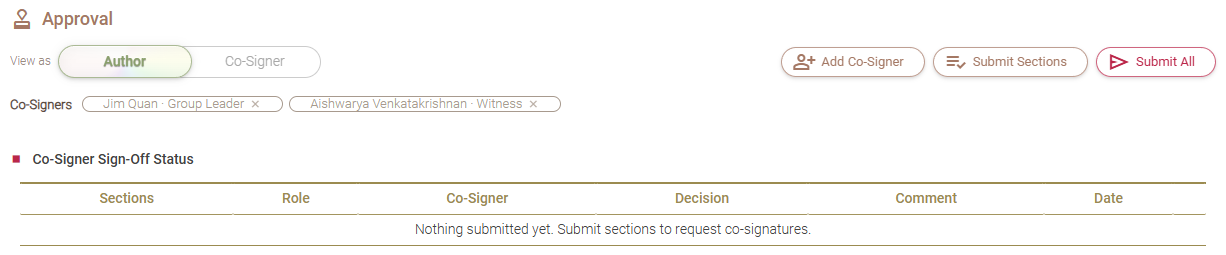
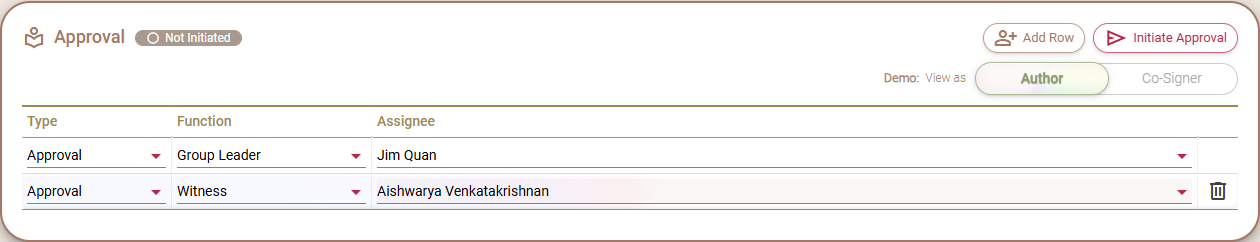
ELN 구현결과 문서: 표준 결재 UI(2번) 그림·설명·회의 결정, Sticky note 크기 조절, Audit 대상 추가(한·영)

diff --git a/docs/ELN_1차구현결과_EN.html b/docs/ELN_1차구현결과_EN.html
@@ -133,7 +133,7 @@ table.dec td.cur{color:var(--ink2);font-size:12px}
 
   <tr class="grp"><td colspan="6">Step 1 · Record reliability</td></tr>
   <tr data-tip="t1"><td class="no">1</td><td class="f">Header fields</td><td class="rq">Header fields for experiment date, a Platform tech / Pre-NPC option (work without a MAPIS NPC number), associated NPI number(s) (several), and paper notebook and page references<span class="nice">Nice</span></td><td>Experiment Date (MAPIS standard date picker, shown as MM-DD-YYYY), Platform / Pre-NPC and Paper Notebook Ref. added to Basic Data. NPI numbers (several) are linked as Project items in Related Items</td><td class="s"><span class="badge ok">Implemented</span></td><td class="nt">No separate NPI field (in MAPIS, NPI number = project code). Projects (NPI, NPT and TS alike) are linked as Project items in Related Items, several per note, all equal. The Primary project, the Associated Project # field in Basic Data and the Stage/Task field were removed (decision of 2026-10-16). Platform/Pre-NPC can coexist with projects. Production has no master list for Platform or Pre-NPC, so the user picks only the type (Platform Technology / Pre-NPC) and types the name; names used in other notes are suggested by autocomplete (user decision). Dates are shown in the MAPIS standard MM-DD-YYYY. The paper notebook reference was Nice, but it was included because it is cheap to build.</td></tr>
-  <tr data-tip="t2"><td class="no">2</td><td class="f">Co-Signer sign-off</td><td class="rq">The author picks the Co-Signers (signers) directly</td><td>Author assigns signers → submits by section or all at once → signer chooses Approved / Not Approved (comment required). Progress shown by the header status and badges</td><td class="s"><span class="badge ok">Implemented</span></td><td class="nt">The card keeps its existing name "Approval" instead of being renamed "Sign-off" (to avoid confusing users). The sign-off row format matches the production approval UI.</td></tr>
+  <tr data-tip="t2"><td class="no">2</td><td class="f">Co-Signer sign-off</td><td class="rq">The author picks the Co-Signers (signers) directly</td><td>MAPIS standard approval UI (same as FMEA). The author sets the approval line (Type · Function · Assignee) with Add Row → Initiate Approval: choose the sections to submit › request comment › submit → the current approver chooses Approved / Not Approved (comment required) › Submit. Before any decision, Withdraw Approval takes it back. Progress shown by the card status badge (Not Initiated / Pending / Approved / Rejected) and the header badges</td><td class="s"><span class="badge ok">Implemented</span></td><td class="nt">The card keeps its existing name "Approval" instead of being renamed "Sign-off" (to avoid confusing users). The approval line editor, status table and buttons follow the production standard approval (appr_util.js, FMEA style) (decided 2026-10-19). ELN-specific parts are only per-section submission · lock, unlock on rejection, Errata after approval, and the "Approved n of m sections" badge.</td></tr>
   <tr data-tip="t3"><td class="no">3</td><td class="f">Lock after submission · Errata</td><td class="rq">Sections can still be added and Errata (corrections) made after ELN submission</td><td>Submitted sections block both editing and deletion; they unlock on rejection, and once fully approved the whole note is read-only. Errata (reason required) can still be added after approval</td><td class="s"><span class="badge ok">Implemented</span></td><td class="nt">The review found ways to bypass the lock with the keyboard, dragging and image drops; these were closed. Errata are allowed even after approval (the original never changes, corrections are only added).</td></tr>
   <tr data-tip="t4"><td class="no">4</td><td class="f">Audit Trail</td><td class="rq">Audit Trail feature</td><td>Table of time · user · section · action · before→after, with Section/User filters. Records most changes, from the header to the editor, tables, attachments and approvals</td><td class="s"><span class="badge ok">Implemented</span></td><td class="nt">Scope extended to changes inside sections (tables, attachments, editor, etc.) (user request). Bulk changes made by the program, such as switching notes or copying, are not recorded.</td></tr>
 
@@ -162,6 +162,7 @@ table.dec td.cur{color:var(--ink2);font-size:12px}
   <li>The Change History title and filters placed on one line</li>
   <li>Formulation selection → <b>Link Formulations</b>: renamed to match what it does (links formulations to the note and shows a comparison when there are two or more). The default scope is all projects linked to this note (Project items in Related Items), and the search can be widened to All projects. The table shows the formulation name and Project # (assuming production Formulator data carries the project number)</li>
   <li>Sticky notes show the author and time. Who can see them = whoever can see that section (the Share &amp; Access scope as is, no separate sharing per sticky note). Sticky notes never leave their section</li>
+  <li>Sticky note resizing (2026-10-19): drag the handle at the bottom-right of a sticky note to resize it within 160-480 px wide and 46-360 px body height; it never grows past its section. The handle is hidden when the note is collapsed, locked, approved or in translation view. Like moving, resizing leaves no Audit entry. Production would store the size (w, h) together with the position (x, y)</li>
   <li>Note status unified into the single approval status: the list and the note header both show In Progress → In Approval → Approved (the old list labels Success / Failed / On Hold and Done / In Review / Draft are dropped)</li>
   <li>Dates shown in the MAPIS standard MM-DD-YYYY (production format MM-dd-yyyy). Experiment Date uses the standard date picker (before, the format changed with the PC language)</li>
   <li>The summary panel on the right of the list now uses the MAPIS standard summary layout (same as the Tech Library and Composition lists): title link, label/value rows, section headings (Related Projects · Modules · Tags), status as colored text, wider panel</li>
@@ -191,6 +192,7 @@ table.dec td.cur{color:var(--ink2);font-size:12px}
   <tr><td class="f">1. Project links</td><td>Decided 2026-10-16: the Primary project concept and the Associated Project # (NPI, NPT, TS) field in Basic Data are removed. Projects are linked only as Project items in Related Items</td><td class="cur">Related Items › Project: search by project # or title, shown as [CODE] Title, a click opens the project. Hint "Linking a project does not grant access to this note." The demo note has 3 projects linked</td></tr>
   <tr><td class="f">1. Stage / Task</td><td>Decided 2026-10-16: the Stage (Task) field is removed. It was based on the Primary project, so it goes too</td><td class="cur">None</td></tr>
   <tr><td class="f">1. Date format</td><td>Decided 2026-10-16: dates are shown in the MAPIS standard MM-DD-YYYY (production MM-dd-yyyy)</td><td class="cur">All dates on screen are MM-DD-YYYY. Experiment Date uses the standard date picker</td></tr>
+  <tr><td class="f">2. Approval UI</td><td>Decided 2026-10-19: the approval UI is unified with the MAPIS standard approval (FMEA style); only per-section submission · lock · Errata stay ELN-specific</td><td class="cur">Approval card: status badge + Add Row · Initiate Approval · Withdraw Approval, Approval Line editor table (Type · Function · Assignee), Approval Status table (Type · Function · Assignee · Status · Comments · Date · Submit, one Submission row per submission with its sections)</td></tr>
   <tr><td class="f">6. Sharing input form</td><td>Decided 2026-10-16: no modal opened on top of another modal (business users' request)</td><td class="cur">In the Share &amp; Access window, Add People (or the Edit pencil on a row) expands an input form above the access table. Saving collapses the form and refreshes the table</td></tr>
   <tr><td class="f">6. Sharing Reason field</td><td>Decided 2026-10-16: the Share Reason field is removed. The original request only asks to "share under compliance"; the reason field was our own interpretation and was not shown anywhere</td><td class="cur">Only the security-policy acknowledgement is required (Share · Save stay disabled until it is ticked). Audit entries end with "Security policy acknowledged"</td></tr>
   <tr><td class="f">7. Copy To in the list</td><td>Decided 2026-10-16: Copy To in the list summary panel is removed. The original request (Copy from) names no location, so it stays only in the note pop-up</td><td class="cur">Note pop-up Copy To: choose sections + Include entered data, opens in a new window</td></tr>
@@ -265,20 +267,44 @@ table.dec td.cur{color:var(--ink2);font-size:12px}
   <div class="tt-req">"Author chooses Co-Signers"</div>
   <div class="tt-cap">Screens</div>
   <figure class="tt-fig">
-    <div class="shot"><img src="img/eln/02_approval_before.png" alt="Approval card, author view, before submission"><span class="mk" style="left:27.1%;top:24.3%">①</span><span class="mk" style="left:46.8%;top:40.9%">②</span><span class="mk" style="left:62.7%;top:24.3%">③</span><span class="mk" style="left:32.8%;top:89.9%">④</span></div>
-    <figcaption><div class="lb">Before submission (author view)</div><ol class="cl">
-      <li><b>①</b> View as Author / Co-Signer: switch tabs for the demo only (in production this depends on the logged-in user)</li>
-      <li><b>②</b> Co-Signers chips (Jim Quan · Group Leader, Aishwarya Venkatakrishnan · Witness): assigned directly by the author, removed with ×</li>
-      <li><b>③</b> Add Co-Signer / Submit Sections (submit selected sections) / Submit All (submit everything)</li>
-      <li><b>④</b> Co-Signer Sign-Off Status table: shows "Nothing submitted yet" because nothing has been submitted yet</li>
+    <div class="shot"><img src="img/eln/02_approval_before.png" alt="Approval card, author view, before initiation"><span class="mk" style="left:20.4%;top:15.4%">①</span><span class="mk" style="left:76.4%;top:15.4%">②</span><span class="mk" style="left:99.2%;top:15.4%">③</span><span class="mk" style="left:67.6%;top:32.4%">④</span><span class="mk" style="left:36.1%;top:50.4%">⑤</span><span class="mk" style="left:98.6%;top:79.0%">⑥</span></div>
+    <figcaption><div class="lb">Before initiation (author view)</div><ol class="cl">
+      <li><b>①</b> Overall status badge of the card: Not Initiated (not yet started) › Pending › Approved / Rejected</li>
+      <li><b>②</b> Add Row: adds a row to the approval line</li>
+      <li><b>③</b> Initiate Approval: choose the sections to submit › request comment › submit</li>
+      <li><b>④</b> Demo: View as Author / Co-Signer: switch tabs for the demo only (in production this depends on the logged-in user)</li>
+      <li><b>⑤</b> Approval line editor table: Type (Approval / Reference) · Function (Group Leader / Witness / Reviewer) · Assignee. Picking the same assignee twice shows a warning</li>
+      <li><b>⑥</b> Hovering a row shows the delete icon; the row is deleted after a confirmation</li>
+    </ol></figcaption>
+  </figure>
+  <div class="tt-pair">
+    <figure class="tt-fig">
+      <div class="shot"><img src="img/eln/02_approval_sections.png" alt="Initiate Approval step 1, section selection"><span class="mk" style="left:4.0%;top:29.7%">①</span><span class="mk" style="left:73.0%;top:38.5%">②</span><span class="mk" style="left:61.8%;top:90.6%">③</span></div>
+      <figcaption><div class="lb">Initiate Approval step 1: choose sections (ELN-specific)</div><ol class="cl"><li><b>①</b> Select all: choosing everything submits the whole note</li><li><b>②</b> Sections already submitted are shown as Submitted and cannot be chosen</li><li><b>③</b> Next</li></ol></figcaption>
+    </figure>
+    <figure class="tt-fig">
+      <div class="shot"><img src="img/eln/02_approval_comment.png" alt="Initiate Approval step 2, request comment"><span class="mk" style="left:4.1%;top:58.4%">①</span><span class="mk" style="left:48.8%;top:84.2%">②</span></div>
+      <figcaption><div class="lb">Step 2: request comment</div><ol class="cl"><li><b>①</b> Comment (optional, up to 500 characters). The chosen sections are listed above it</li><li><b>②</b> Submit › confirmation › submitted. The chosen sections are locked</li></ol></figcaption>
+    </figure>
+  </div>
+  <figure class="tt-fig">
+    <div class="shot"><img src="img/eln/02_approval_initiated.png" alt="Approval card, author view, after initiation"><span class="mk" style="left:18.7%;top:7.5%">①</span><span class="mk" style="left:74.0%;top:2.9%">②</span><span class="mk" style="left:99.2%;top:7.5%">③</span><span class="mk" style="left:33.7%;top:71.3%">④</span><span class="mk" style="left:68.7%;top:78.0%">⑤</span></div>
+    <figcaption><div class="lb">After initiation (author view, 2 sections submitted)</div><ol class="cl">
+      <li><b>①</b> Status badge Pending</li>
+      <li><b>②</b> Initiate Approval: sections not yet submitted can still be submitted</li>
+      <li><b>③</b> Withdraw Approval: takes the request back before any approver decides, and unlocks the submitted sections</li>
+      <li><b>④</b> Approval Status table (Type · Function · Assignee · Status · Comments · Date · Submit): one Submission row per submission (status, Sections list)</li>
+      <li><b>⑤</b> Request row: the author's (Charles Kim) request comment and date</li>
     </ol></figcaption>
   </figure>
   <figure class="tt-fig">
-    <div class="shot"><img src="img/eln/02_approval_cosigner.png" alt="Approval card, signer view"><span class="mk" style="left:37.1%;top:33.6%">①</span><span class="mk" style="left:35.9%;top:73.8%">②</span><span class="mk" style="left:87.9%;top:72.0%">③</span></div>
-    <figcaption><div class="lb">After submission (Co-Signer view)</div><ol class="cl">
-      <li><b>①</b> Jim Quan: Approved (green), comment "Data verified.", date and time recorded</li>
-      <li><b>②</b> Aishwarya: still pending. Choose Approved / Not Approved and enter a comment (required for Not Approved)</li>
-      <li><b>③</b> Submit: the signer confirms the decision</li>
+    <div class="shot"><img src="img/eln/02_approval_cosigner.png" alt="Approval card, signer view"><span class="mk" style="left:86.9%;top:24.1%">①</span><span class="mk" style="left:39.9%;top:70.3%">②</span><span class="mk" style="left:38.5%;top:82.2%">③</span><span class="mk" style="left:78.5%;top:82.2%">④</span><span class="mk" style="left:90.6%;top:82.2%">⑤</span></div>
+    <figcaption><div class="lb">In approval (Co-Signer view, ?st=appr)</div><ol class="cl">
+      <li><b>①</b> Demo: View as Co-Signer tab</li>
+      <li><b>②</b> Jim Quan: Approved, comment "Data verified.", date recorded</li>
+      <li><b>③</b> Current approver's (Aishwarya) row: choose Approved / Not Approved</li>
+      <li><b>④</b> Comments (required for Not Approved)</li>
+      <li><b>⑤</b> Submit: confirms the decision. Not Approved unlocks the submitted sections; when everyone approves, the sections are approved</li>
     </ol></figcaption>
   </figure>
   <figure class="tt-fig">
@@ -287,15 +313,15 @@ table.dec td.cur{color:var(--ink2);font-size:12px}
   </figure>
   <div class="tt-cap">Demo</div>
   <ol class="tt-steps">
-    <li>Add <b>?st=appr</b> to the end of the address to open a note in approval</li>
-    <li>In the Approval card, switch to the View as <b>Co-Signer</b> tab</li>
-    <li>On a pending signer row, choose Approved (or Not Approved + comment) › Submit</li>
-    <li>Check that the header status and the Awaiting badge change</li>
+    <li>In the Approval card, check or change the approval line with <b>Add Row</b></li>
+    <li><b>Initiate Approval</b> › choose sections › Next › request comment › Submit (before any decision, Withdraw Approval takes it back)</li>
+    <li>Demo: View as <b>Co-Signer</b> tab › on the current approver's row choose Approved (or Not Approved + comment) › Submit</li>
+    <li>Check that the header status and the Awaiting badge change. To open a note already in approval, add <b>?st=appr</b> to the end of the address</li>
   </ol>
   <div class="tt-cap">Changes from the plan</div>
-  <ul class="tt-l"><li>The card keeps its existing name <b>Approval</b> instead of being renamed "Sign-off"</li></ul>
+  <ul class="tt-l"><li>The card keeps its existing name <b>Approval</b> instead of being renamed "Sign-off"</li><li>The approval UI is unified with the MAPIS standard approval (FMEA style) (decided 2026-10-19). The Co-Signer chips, Add Co-Signer window, Submit Sections / Submit All buttons and the Sections | Role | Co-Signer | Decision table are replaced by the Add Row approval line editor, Initiate Approval, Withdraw Approval and the standard Approval Status table. Only per-section submission · lock, unlock on rejection, Errata after approval and the "Approved n of m sections" badge stay ELN-specific</li></ul>
   <div class="tt-cap">Production notes</div>
-  <ul class="tt-l"><li>Stored in the same row format as the existing MAPIS approval feature. The approval module (TS09_APPR) can be reused</li></ul>
+  <ul class="tt-l"><li>The screen has the same structure as the production standard approval card (appr_util.js), so it can be reused. Stored in the same row format as the existing MAPIS approval feature (approval module TS09_APPR) + the section list per submission (ELN-specific)</li></ul>
 </template>
 
 <template id="t3">
@@ -353,7 +379,7 @@ table.dec td.cur{color:var(--ink2);font-size:12px}
   </figure>
   <div class="tt-cap">What is recorded</div>
   <ul class="tt-l">
-    <li>Header fields, tags, adding/deleting sections and their name · icon · order, approval submission/approval/rejection, Errata, co-editors, sharing</li>
+    <li>Header fields, tags, adding/deleting sections and their name · icon · order, adding/removing approvers, approval submission/withdrawal/approval/rejection, Errata, co-editors, sharing</li>
     <li>Editor body (one entry when editing finishes), tables · charts, attachments, Related Items, ChemStudio structures, sticky notes</li>
   </ul>
   <div class="tt-cap">Demo</div>

diff --git a/docs/ELN_1차구현결과.html b/docs/ELN_1차구현결과.html
@@ -133,7 +133,7 @@ table.dec td.cur{color:var(--ink2);font-size:12px}
 
   <tr class="grp"><td colspan="6">1단계 · 기록 신뢰성</td></tr>
   <tr data-tip="t1"><td class="no">1</td><td class="f">헤더 필드</td><td class="rq">헤더에 실험 날짜, Platform tech / Pre-NPC 선택(MAPIS NPC 번호가 없는 과제), 연관 NPI 번호(여러 개), 종이 노트·페이지 참조<span class="nice">Nice</span></td><td>Basic Data에 Experiment Date(MAPIS 표준 날짜 선택기, MM-DD-YYYY 표시), Platform / Pre-NPC, Paper Notebook Ref. 추가. NPI 번호(여러 개)는 Related Items의 Project 항목으로 연결</td><td class="s"><span class="badge ok">구현 완료</span></td><td class="nt">NPI 별도 칸은 만들지 않음(MAPIS에선 NPI 번호 = 프로젝트 코드). 프로젝트(NPI, NPT, TS 모두)는 Related Items에 Project 항목으로 여러 개 동등하게 연결. Primary 프로젝트, Basic Data의 Associated Project # 칸, Stage/Task 칸은 제거(2026-10-16 결정). Platform/Pre-NPC는 프로젝트와 공존 가능. 운영에 Platform·Pre-NPC 마스터 목록이 없어 유형(Platform Technology / Pre-NPC)만 고르고 이름은 입력, 다른 노트에서 쓴 이름은 자동완성으로 추천(사용자 결정). 날짜는 MAPIS 표준 MM-DD-YYYY로 표시. 종이 노트 참조는 Nice였으나 구현 부담이 작아 포함.</td></tr>
-  <tr data-tip="t2"><td class="no">2</td><td class="f">Co-Signer 서명</td><td class="rq">작성자가 Co-Signer(서명자)를 직접 선택</td><td>작성자가 서명자 지정 → 섹션별/전체 제출 → 서명자가 Approved / Not Approved(코멘트 필수). 헤더 상태와 배지로 진행 표시</td><td class="s"><span class="badge ok">구현 완료</span></td><td class="nt">카드 이름은 "Sign-off"로 바꾸지 않고 기존 "Approval" 유지(사용자 혼동 방지). 서명 행 형식은 운영 결재 UI와 동일.</td></tr>
+  <tr data-tip="t2"><td class="no">2</td><td class="f">Co-Signer 서명</td><td class="rq">작성자가 Co-Signer(서명자)를 직접 선택</td><td>MAPIS 표준 결재 UI(FMEA와 같음). 작성자가 Add Row로 결재선(Type · Function · Assignee) 지정 → Initiate Approval: 제출할 섹션 선택 › 상신 의견 › 제출 → 현재 결재자가 Approved / Not Approved(의견 필수) › Submit. 결정 전에는 Withdraw Approval로 회수. 카드 상태 배지(Not Initiated / Pending / Approved / Rejected)와 헤더 배지로 진행 표시</td><td class="s"><span class="badge ok">구현 완료</span></td><td class="nt">카드 이름은 "Sign-off"로 바꾸지 않고 기존 "Approval" 유지(사용자 혼동 방지). 결재선 편집표 · 현황표 · 버튼은 운영 표준 결재(appr_util.js, FMEA 방식)와 같은 형식으로 통일(2026-10-19 결정). ELN 전용은 섹션 단위 제출 · 잠금, 반려 시 잠금 해제, 승인 후 Errata, "Approved n of m sections" 표시만.</td></tr>
   <tr data-tip="t3"><td class="no">3</td><td class="f">제출 후 잠금 · Errata</td><td class="rq">ELN 제출 후에도 섹션 추가와 Errata(정정) 가능</td><td>제출 섹션은 편집·삭제 모두 차단, 반려 시 해제, 전체 승인 시 노트 전체 읽기 전용. 승인 후에도 Errata(사유 필수) 추가 가능</td><td class="s"><span class="badge ok">구현 완료</span></td><td class="nt">리뷰에서 키보드·드래그·이미지 드롭으로 잠금을 우회하는 경로가 발견돼 보강. Errata는 승인 후에도 허용(원문 불변, 정정만 추가).</td></tr>
   <tr data-tip="t4"><td class="no">4</td><td class="f">Audit Trail</td><td class="rq">Audit Trail 기능</td><td>시각·사용자·섹션·동작·변경 전→후 표와 Section/User 필터. 헤더부터 에디터·표·첨부·결재까지 대부분의 변경을 기록</td><td class="s"><span class="badge ok">구현 완료</span></td><td class="nt">섹션 내부 변경(표·첨부·에디터 등)까지 기록하도록 범위 확장(사용자 요청). 노트 전환·복제 같은 프로그램 일괄 변경은 기록 제외.</td></tr>
 
@@ -162,6 +162,7 @@ table.dec td.cur{color:var(--ink2);font-size:12px}
   <li>Change History의 제목과 필터를 한 줄로 배치</li>
   <li>Formulation 배합 선택 → <b>Link Formulations</b>: 하는 일(노트에 배합 연결, 2개 이상이면 비교 표시)에 맞게 이름 변경. 기본 범위는 이 노트에 연결된 프로젝트(Related Items의 Project 항목) 전체, All projects로 넓혀 검색 가능. 표에 배합 이름·Project # 표시 (운영 Formulator 데이터에 프로젝트 번호가 있다는 전제)</li>
   <li>Sticky note에 작성자·시각 표시. 볼 수 있는 사람 = 그 섹션을 볼 수 있는 사람(Share &amp; Access 범위 그대로, 메모별 별도 공유 없음). 메모는 섹션 밖으로 나가지 않음</li>
+  <li>Sticky note 크기 조절(2026-10-19): 메모 오른쪽 아래 손잡이를 끌어 너비 160~480px, 본문 높이 46~360px 안에서 조절, 섹션 밖으로는 커지지 않음. 접힘 · 잠금 · 승인 · 번역 보기에서는 손잡이 숨김. 이동과 같이 Audit 기록 없음. 운영에서는 위치(x, y)와 함께 크기(w, h)도 저장</li>
   <li>노트 상태 표기를 결재 상태 하나로 통일: 리스트·노트 헤더 모두 In Progress → In Approval → Approved (기존 리스트의 Success / Failed / On Hold, Done / In Review / Draft 표기 폐기)</li>
   <li>날짜 표시를 MAPIS 표준 MM-DD-YYYY로 통일(운영 형식 MM-dd-yyyy). Experiment Date는 표준 날짜 선택기 사용(전에는 PC 언어에 따라 형식이 달라짐)</li>
   <li>리스트 오른쪽 요약 패널을 MAPIS 표준 요약 형식으로 변경(Tech Library·Composition 리스트와 같음): 제목 링크, 라벨/값 행, 소제목(Related Projects · Modules · Tags), 상태는 색 글자, 패널 폭 확대</li>
@@ -191,6 +192,7 @@ table.dec td.cur{color:var(--ink2);font-size:12px}
   <tr><td class="f">1. 프로젝트 연결</td><td>2026-10-16 결정: Primary 프로젝트 개념과 Basic Data의 Associated Project # (NPI, NPT, TS) 칸을 없앰. 프로젝트는 Related Items의 Project 항목으로만 연결</td><td class="cur">Related Items › Project: 프로젝트 번호나 이름으로 검색, [코드] 이름으로 표시, 클릭하면 프로젝트가 열림. 안내 "Linking a project does not grant access to this note." 데모 노트는 프로젝트 3개 연결</td></tr>
   <tr><td class="f">1. Stage / Task</td><td>2026-10-16 결정: Stage(Task) 칸 제거. Primary 프로젝트를 기준으로 하던 칸이라 함께 없앰</td><td class="cur">없음</td></tr>
   <tr><td class="f">1. 날짜 형식</td><td>2026-10-16 결정: 날짜는 MAPIS 표준 MM-DD-YYYY로 표시(운영 MM-dd-yyyy)</td><td class="cur">화면의 날짜 모두 MM-DD-YYYY. Experiment Date는 표준 날짜 선택기</td></tr>
+  <tr><td class="f">2. 결재 UI</td><td>2026-10-19 결정: 결재 UI를 MAPIS 표준 결재(FMEA 방식)로 통일, ELN 전용은 섹션 단위 제출·잠금·Errata만</td><td class="cur">Approval 카드: 상태 배지 + Add Row · Initiate Approval · Withdraw Approval, Approval Line 편집표(Type · Function · Assignee), Approval Status 현황표(Type · Function · Assignee · Status · Comments · Date · Submit, 제출마다 Submission 행에 섹션 목록)</td></tr>
   <tr><td class="f">6. 공유 입력 화면</td><td>2026-10-16 결정: 모달 위에 모달을 겹쳐 띄우지 않음(현업 요청)</td><td class="cur">Share &amp; Access 창 안에서 Add People(또는 행의 Edit 연필)을 누르면 접근 인원 표 위에 입력 폼이 펼쳐짐. 저장하면 폼이 접히고 표가 갱신됨</td></tr>
   <tr><td class="f">6. 공유 사유(Reason) 입력</td><td>2026-10-16 결정: Share 사유(Reason) 입력칸 제거. 원문은 "규정 준수 하에 공유"만 요구하고, 사유는 자체 해석으로 넣은 칸이었으며 화면 어디에도 쓰이지 않음</td><td class="cur">정보보호 규정 확인 체크만 필수(체크 전엔 Share · Save 비활성). Audit 기록 끝에 "Security policy acknowledged"</td></tr>
   <tr><td class="f">7. 리스트의 Copy To</td><td>2026-10-16 결정: 리스트 요약 패널의 Copy To 제거. 원문(Copy from)에 위치 지정이 없어 노트 팝업에만 둠</td><td class="cur">노트 팝업 Copy To: 섹션 선택 + Include entered data, 새 창에서 열림</td></tr>
@@ -265,20 +267,44 @@ table.dec td.cur{color:var(--ink2);font-size:12px}
   <div class="tt-req">"Author chooses Co-Signers"</div>
   <div class="tt-cap">화면</div>
   <figure class="tt-fig">
-    <div class="shot"><img src="img/eln/02_approval_before.png" alt="Approval 카드, 작성자 화면, 제출 전"><span class="mk" style="left:27.1%;top:24.3%">①</span><span class="mk" style="left:46.8%;top:40.9%">②</span><span class="mk" style="left:62.7%;top:24.3%">③</span><span class="mk" style="left:32.8%;top:89.9%">④</span></div>
-    <figcaption><div class="lb">제출 전 (작성자 화면)</div><ol class="cl">
-      <li><b>①</b> View as Author / Co-Signer: 시연용 전환 탭(운영에서는 로그인 사용자에 따라 결정)</li>
-      <li><b>②</b> Co-Signers 칩(Jim Quan · Group Leader, Aishwarya Venkatakrishnan · Witness): 작성자가 직접 지정, × 로 제거</li>
-      <li><b>③</b> Add Co-Signer / Submit Sections(섹션 선택 제출) / Submit All(전체 제출)</li>
-      <li><b>④</b> Co-Signer Sign-Off Status 표: 아직 제출 전이라 "Nothing submitted yet"</li>
+    <div class="shot"><img src="img/eln/02_approval_before.png" alt="Approval 카드, 작성자 화면, 상신 전"><span class="mk" style="left:20.4%;top:15.4%">①</span><span class="mk" style="left:76.4%;top:15.4%">②</span><span class="mk" style="left:99.2%;top:15.4%">③</span><span class="mk" style="left:67.6%;top:32.4%">④</span><span class="mk" style="left:36.1%;top:50.4%">⑤</span><span class="mk" style="left:98.6%;top:79.0%">⑥</span></div>
+    <figcaption><div class="lb">상신 전 (작성자 화면)</div><ol class="cl">
+      <li><b>①</b> 카드 전체 상태 배지: Not Initiated(상신 전) › Pending › Approved / Rejected</li>
+      <li><b>②</b> Add Row: 결재선에 행 추가</li>
+      <li><b>③</b> Initiate Approval: 제출할 섹션 선택 › 상신 의견 › 제출</li>
+      <li><b>④</b> Demo: View as Author / Co-Signer: 시연용 전환 탭(운영에서는 로그인 사용자에 따라 결정)</li>
+      <li><b>⑤</b> 결재선 편집표: Type(Approval / Reference) · Function(Group Leader / Witness / Reviewer) · Assignee. 같은 담당자를 두 번 고르면 경고</li>
+      <li><b>⑥</b> 행에 마우스를 올리면 삭제 아이콘 표시, 확인 창 후 삭제</li>
+    </ol></figcaption>
+  </figure>
+  <div class="tt-pair">
+    <figure class="tt-fig">
+      <div class="shot"><img src="img/eln/02_approval_sections.png" alt="Initiate Approval 1단계, 섹션 선택"><span class="mk" style="left:4.0%;top:29.7%">①</span><span class="mk" style="left:73.0%;top:38.5%">②</span><span class="mk" style="left:61.8%;top:90.6%">③</span></div>
+      <figcaption><div class="lb">Initiate Approval 1단계: 섹션 선택 (ELN 전용)</div><ol class="cl"><li><b>①</b> Select all: 전부 고르면 노트 전체 제출</li><li><b>②</b> 이미 제출된 섹션은 Submitted로 표시되고 고를 수 없음</li><li><b>③</b> Next</li></ol></figcaption>
+    </figure>
+    <figure class="tt-fig">
+      <div class="shot"><img src="img/eln/02_approval_comment.png" alt="Initiate Approval 2단계, 상신 의견"><span class="mk" style="left:4.1%;top:58.4%">①</span><span class="mk" style="left:48.8%;top:84.2%">②</span></div>
+      <figcaption><div class="lb">2단계: 상신 의견</div><ol class="cl"><li><b>①</b> 의견 입력(선택, 500자까지). 위에 고른 섹션 목록 표시</li><li><b>②</b> Submit › 확인 창 › 제출. 고른 섹션은 잠김</li></ol></figcaption>
+    </figure>
+  </div>
+  <figure class="tt-fig">
+    <div class="shot"><img src="img/eln/02_approval_initiated.png" alt="Approval 카드, 작성자 화면, 상신 후"><span class="mk" style="left:18.7%;top:7.5%">①</span><span class="mk" style="left:74.0%;top:2.9%">②</span><span class="mk" style="left:99.2%;top:7.5%">③</span><span class="mk" style="left:33.7%;top:71.3%">④</span><span class="mk" style="left:68.7%;top:78.0%">⑤</span></div>
+    <figcaption><div class="lb">상신 후 (작성자 화면, 2개 섹션 제출)</div><ol class="cl">
+      <li><b>①</b> 상태 배지 Pending</li>
+      <li><b>②</b> Initiate Approval: 아직 제출하지 않은 섹션을 이어서 제출 가능</li>
+      <li><b>③</b> Withdraw Approval: 결재자 결정 전 회수, 제출한 섹션 잠금 해제</li>
+      <li><b>④</b> Approval Status 표(Type · Function · Assignee · Status · Comments · Date · Submit): 제출마다 Submission 행(상태, Sections 목록)</li>
+      <li><b>⑤</b> Request 행: 작성자(Charles Kim)의 상신 의견과 날짜</li>
     </ol></figcaption>
   </figure>
   <figure class="tt-fig">
-    <div class="shot"><img src="img/eln/02_approval_cosigner.png" alt="Approval 카드, 서명자 화면"><span class="mk" style="left:37.1%;top:33.6%">①</span><span class="mk" style="left:35.9%;top:73.8%">②</span><span class="mk" style="left:87.9%;top:72.0%">③</span></div>
-    <figcaption><div class="lb">제출 후 (Co-Signer 화면)</div><ol class="cl">
-      <li><b>①</b> Jim Quan: Approved(초록), 코멘트 "Data verified.", 일시 기록 완료</li>
-      <li><b>②</b> Aishwarya: 아직 미결. Approved / Not Approved 선택, 코멘트 입력(Not Approved는 필수)</li>
-      <li><b>③</b> Submit: 서명자가 결정을 확정</li>
+    <div class="shot"><img src="img/eln/02_approval_cosigner.png" alt="Approval 카드, 서명자 화면"><span class="mk" style="left:86.9%;top:24.1%">①</span><span class="mk" style="left:39.9%;top:70.3%">②</span><span class="mk" style="left:38.5%;top:82.2%">③</span><span class="mk" style="left:78.5%;top:82.2%">④</span><span class="mk" style="left:90.6%;top:82.2%">⑤</span></div>
+    <figcaption><div class="lb">결재 중 (Co-Signer 화면, ?st=appr)</div><ol class="cl">
+      <li><b>①</b> Demo: View as Co-Signer 탭</li>
+      <li><b>②</b> Jim Quan: Approved, 의견 "Data verified.", 날짜 기록</li>
+      <li><b>③</b> 현재 결재자(Aishwarya) 행: Approved / Not Approved 선택</li>
+      <li><b>④</b> Comments 입력(Not Approved면 필수)</li>
+      <li><b>⑤</b> Submit: 결정 확정. Not Approved면 제출 섹션 잠금 해제, 전원 승인이면 섹션 승인</li>
     </ol></figcaption>
   </figure>
   <figure class="tt-fig">
@@ -287,15 +313,15 @@ table.dec td.cur{color:var(--ink2);font-size:12px}
   </figure>
   <div class="tt-cap">시연 순서</div>
   <ol class="tt-steps">
-    <li>주소 뒤에 <b>?st=appr</b>를 붙여 결재 중인 노트를 연다</li>
-    <li>Approval 카드에서 View as <b>Co-Signer</b> 탭으로 전환</li>
-    <li>미결 서명자 행에서 Approved(또는 Not Approved + 코멘트) 선택 › Submit</li>
-    <li>헤더 상태와 Awaiting 배지가 바뀌는 것 확인</li>
+    <li>Approval 카드에서 <b>Add Row</b>로 결재선 확인 · 수정</li>
+    <li><b>Initiate Approval</b> › 섹션 선택 › Next › 상신 의견 › Submit (결정 전에는 Withdraw Approval로 회수 가능)</li>
+    <li>Demo: View as <b>Co-Signer</b> 탭 › 현재 결재자 행에서 Approved(또는 Not Approved + 의견) › Submit</li>
+    <li>헤더 상태와 Awaiting 배지가 바뀌는 것 확인. 결재 중인 노트를 바로 보려면 주소 뒤에 <b>?st=appr</b></li>
   </ol>
   <div class="tt-cap">계획 대비 변경</div>
-  <ul class="tt-l"><li>카드 이름을 "Sign-off"로 바꾸지 않고 기존 <b>Approval</b> 유지</li></ul>
+  <ul class="tt-l"><li>카드 이름을 "Sign-off"로 바꾸지 않고 기존 <b>Approval</b> 유지</li><li>결재 UI를 MAPIS 표준 결재(FMEA 방식)로 통일(2026-10-19 결정). Co-Signer 칩, Add Co-Signer 창, Submit Sections / Submit All 버튼, Sections | Role | Co-Signer | Decision 표를 Add Row 결재선 편집표, Initiate Approval, Withdraw Approval, 표준 Approval Status 표로 교체. ELN 전용은 섹션 단위 제출 · 잠금, 반려 시 잠금 해제, 승인 후 Errata, "Approved n of m sections" 표시만 유지</li></ul>
   <div class="tt-cap">운영 구현 시 고려</div>
-  <ul class="tt-l"><li>기존 MAPIS 결재 기능과 같은 행 형태로 저장. 결재 모듈(TS09_APPR) 재사용 가능</li></ul>
+  <ul class="tt-l"><li>화면은 운영 표준 결재 카드(appr_util.js)와 같은 구조라 재사용 가능. 저장은 기존 MAPIS 결재 기능과 같은 행 형태(결재 모듈 TS09_APPR) + 제출별 섹션 목록(ELN 전용)</li></ul>
 </template>
 
 <template id="t3">
@@ -353,7 +379,7 @@ table.dec td.cur{color:var(--ink2);font-size:12px}
   </figure>
   <div class="tt-cap">기록 대상</div>
   <ul class="tt-l">
-    <li>헤더 필드, 태그, 섹션 추가/삭제/이름·아이콘·순서, 결재 제출/승인/반려, Errata, 공동편집자, 공유</li>
+    <li>헤더 필드, 태그, 섹션 추가/삭제/이름·아이콘·순서, 결재선 추가/삭제, 결재 제출/회수/승인/반려, Errata, 공동편집자, 공유</li>
     <li>에디터 본문(편집을 마칠 때 1건), 표·차트, 첨부, Related Items, ChemStudio 구조, 포스트잇</li>
   </ul>
   <div class="tt-cap">시연 순서</div>
